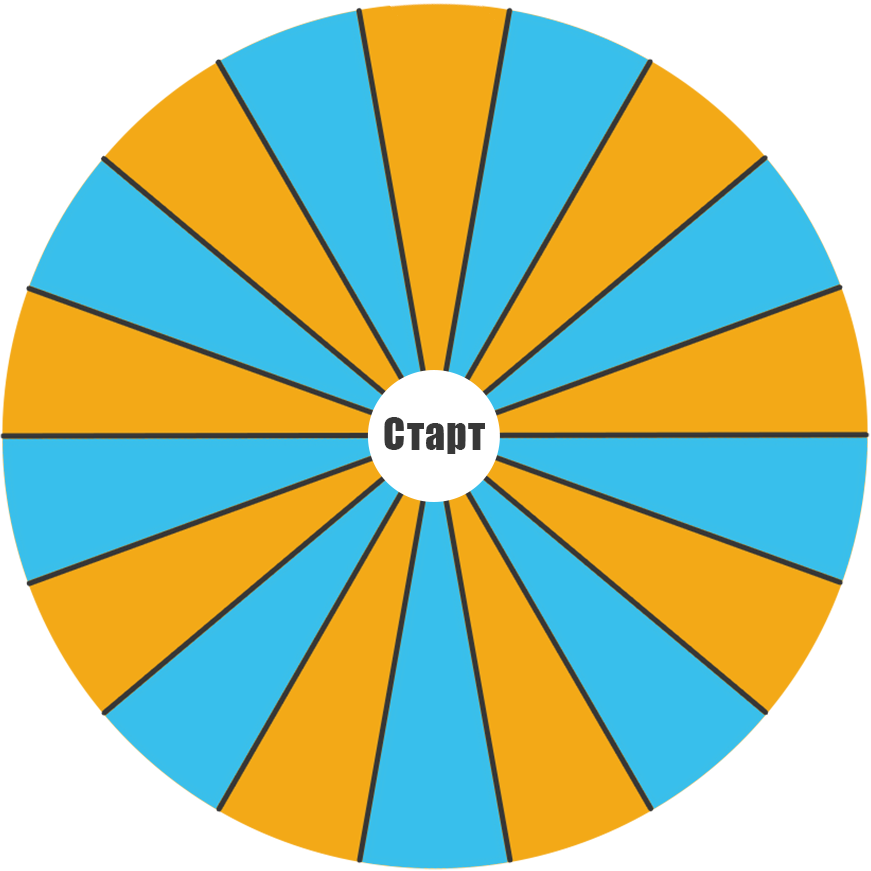
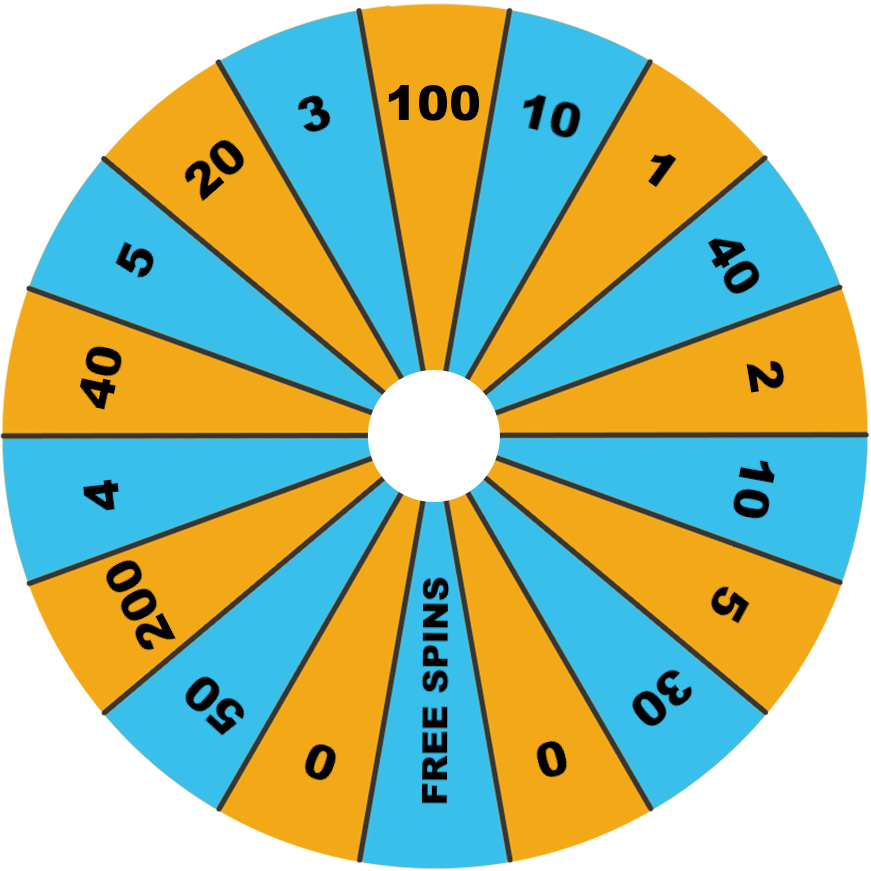
Wheel modified, wins added

diff --git a/start.js b/start.js
@@ -3,6 +3,7 @@ const params = {
     speed: 5,
     angle: 0,
     sectors: [
+        0,
         14,
         10,
         3,
@@ -27,7 +28,8 @@ start = () => {
 }
 
 rotate = (index) => {
-    params.angle = params.sectors[index] / 18 * 180 + params.angle
+    // params.angle = (params.sectors[index] + 2)/ 18 * (180 + params.angle)
+    params.angle = params.sectors[index] / 18 * 180 + params.speed * 360
 
     console.log(index, params.sectors[index], params.angle)
 

diff --git a/style.css b/style.css
@@ -7,7 +7,6 @@ body {
     color: #333;
   }
 
-
   #wheel {
       display: inline;
       position: relative;
@@ -17,6 +16,7 @@ body {
     display: inline-block;
     left: 224px;
     top: 135px;
+    border: 1px solid black
   }
 
   #startButton {

diff --git a/index.html b/index.html
@@ -10,7 +10,6 @@
 <body>
     <h1>Wheel Of Furtune</h1>
     <button id="startButton" style="display: block">Старт</button>
-    
     <div id="wheel-container">
         <img id="wheel" src="./assets/wheel.png" alt="wheel">
     </div>
